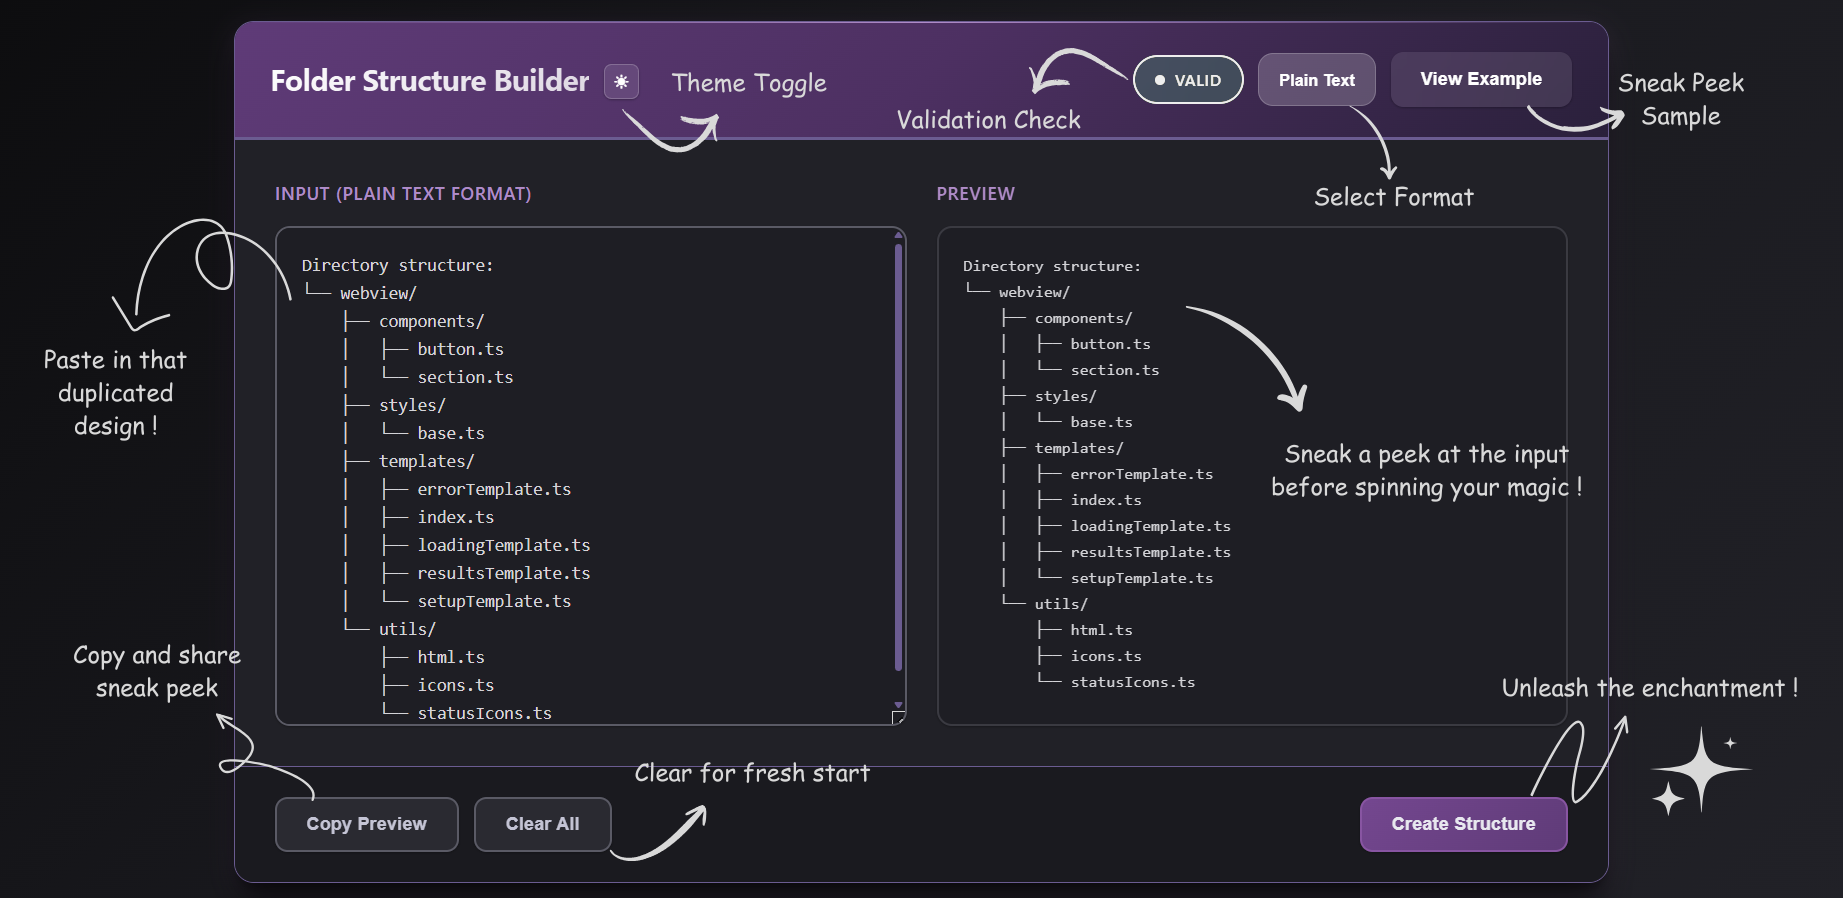
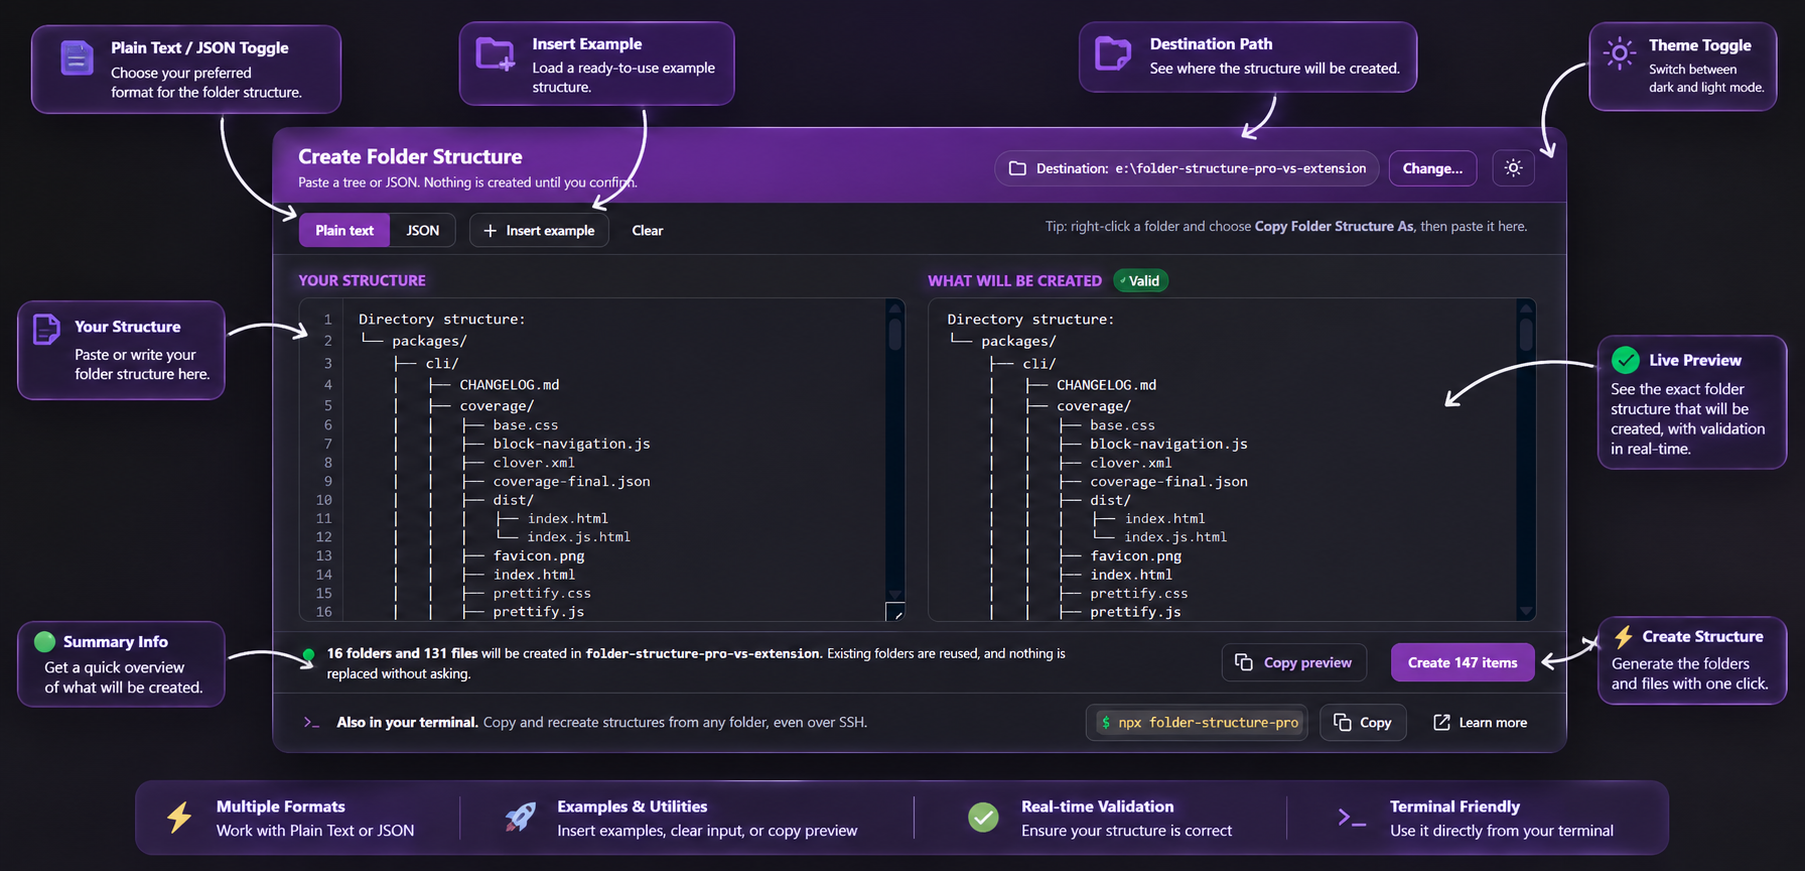
docs(whats-new): update release announcement and add CLI screenshot

diff --git a/src/whatsNew.ts b/src/whatsNew.ts
@@ -10,7 +10,7 @@ export const LAST_VERSION_KEY = 'whatsNew.lastVersion';
 const EXTENSION_ID = 'iamshreydxv.copy-folder-structure';
 
 /**
- * Images shown on the What's New page, if present. Put the files in assets/whats-new/;
+ * Images shown on the What's New page, if present. Put the files in assets/;
  * a missing image is simply left out.
  */
 export const WHATS_NEW_IMAGES = [
@@ -108,44 +108,9 @@ export async function showWhatsNew(context: vscode.ExtensionContext): Promise<vs
     }
 
     const nonce = randomBytes(16).toString('base64');
-    panel.webview.html = `<!DOCTYPE html>
-<html lang="en">
-<head>
-<meta charset="UTF-8">
-<meta name="viewport" content="width=device-width, initial-scale=1.0">
-<meta http-equiv="Content-Security-Policy" content="default-src 'none'; img-src ${panel.webview.cspSource}; style-src 'unsafe-inline'; script-src 'nonce-${nonce}';">
-<title>What's New</title>
-<style>
-body{max-width:900px;margin:0 auto;padding:24px 20px 40px;font-family:var(--vscode-font-family);font-size:var(--vscode-font-size);line-height:1.6;color:var(--vscode-foreground)}
-h1{font-size:1.6em;margin:0 0 4px}
-.lead{margin:0 0 20px;color:var(--vscode-descriptionForeground)}
-section{margin:0 0 28px}
-h2{font-size:1.15em;margin:0 0 4px}
-section p{margin:0 0 10px;color:var(--vscode-descriptionForeground)}
-img{display:block;max-width:100%;height:auto;border:1px solid var(--vscode-panel-border, transparent);border-radius:8px}
-.command{display:flex;flex-wrap:wrap;align-items:center;gap:8px;margin:8px 0 28px}
-code{padding:6px 10px;border-radius:6px;font-family:var(--vscode-editor-font-family);background:var(--vscode-textCodeBlock-background)}
-button{padding:6px 14px;border:0;border-radius:4px;cursor:pointer;font:inherit;color:var(--vscode-button-foreground);background:var(--vscode-button-background)}
-button:hover{background:var(--vscode-button-hoverBackground)}
-button.secondary{color:var(--vscode-button-secondaryForeground);background:var(--vscode-button-secondaryBackground)}
-button.secondary:hover{background:var(--vscode-button-secondaryHoverBackground)}
-</style>
-</head>
-<body>
-<h1>What's new in Folder Structure Pro</h1>
-<p class="lead">Folder Structure Pro now also works from your terminal, with no installation needed:</p>
-<div class="command"><code>${escapeHtml(CLI_COMMAND)}</code>
-    <button id="copy" type="button">Copy command</button>
-    <button id="learnMore" class="secondary" type="button">Learn more</button>
-</div>
-${sections.join('\n')}
-<script nonce="${nonce}">
-const vscode = acquireVsCodeApi();
-document.getElementById('copy').addEventListener('click', () => vscode.postMessage({ command: 'copyCommand' }));
-document.getElementById('learnMore').addEventListener('click', () => vscode.postMessage({ command: 'learnMore' }));
-</script>
-</body>
-</html>`;
+    panel.webview.html = `
+<!doctype html><html lang="en"><head><meta charset="UTF-8"><meta name="viewport" content="width=device-width,initial-scale=1"><meta http-equiv="Content-Security-Policy" content="default-src 'none'; img-src ${panel.webview.cspSource} https://raw.githubusercontent.com; style-src 'unsafe-inline'; script-src 'nonce-${nonce}';"><title>What's New</title><style>body{max-width:900px;margin:0 auto;padding:24px 20px 40px;font-family:var(--vscode-font-family);font-size:var(--vscode-font-size);line-height:1.6;color:var(--vscode-foreground)}h1{font-size:1.6em;margin:0 0 8px}.lead{margin:0 0 24px;color:var(--vscode-descriptionForeground)}section{margin:0 0 28px}h2{font-size:1.15em;margin:0 0 8px}h3{font-size:1em;margin:18px 0 6px}section p{margin:0 0 10px;color:var(--vscode-descriptionForeground)}ul{padding-left:22px;margin:8px 0 14px}li{margin-bottom:6px}img{display:block;max-width:100%;height:auto;margin:16px 0;border:1px solid var(--vscode-panel-border,transparent);border-radius:8px}.command{display:flex;flex-wrap:wrap;align-items:center;gap:8px;margin:10px 0 4px}code{padding:6px 10px;border-radius:6px;font-family:var(--vscode-editor-font-family);background:var(--vscode-textCodeBlock-background)}button{padding:6px 14px;border:0;border-radius:4px;cursor:pointer;font:inherit;color:var(--vscode-button-foreground);background:var(--vscode-button-background)}button:hover{background:var(--vscode-button-hoverBackground)}button.secondary{color:var(--vscode-button-secondaryForeground);background:var(--vscode-button-secondaryBackground)}button.secondary:hover{background:var(--vscode-button-secondaryHoverBackground)}.divider{border:0;border-top:1px solid var(--vscode-panel-border);margin:24px 0}.highlight{padding:14px 16px;border-left:3px solid var(--vscode-textLink-foreground);background:var(--vscode-textCodeBlock-background);border-radius:4px;margin:14px 0}footer{margin-top:32px;padding-top:16px;border-top:1px solid var(--vscode-panel-border);color:var(--vscode-descriptionForeground);font-size:.9em}footer p{margin:0}a{color:var(--vscode-textLink-foreground)}</style></head><body><h1>What's new in Folder Structure Pro</h1><p class="lead">A major step forward! Folder Structure Pro is no longer limited to the VS Code Explorer. This update introduces a standalone CLI, a redesigned structure builder, and a stronger foundation for safer, more reliable filesystem operations.</p><section><h2>🚀 Meet Folder Structure Pro CLI</h2><p>Take your folder-structure workflow beyond VS Code. The new standalone CLI lets you inspect, copy, export, and create project structures directly from your terminal.</p><div class="highlight"><strong>Try it instantly — no global installation required:</strong><div class="command"><code>${escapeHtml(CLI_COMMAND)}</code><button id="copy" type="button">Copy command</button><button id="learnMore" type="button" class="secondary">Explore CLI</button></div></div><h3>What you can do</h3><ul><li><strong>Copy structures:</strong> Generate folder trees and copy them directly to your clipboard.</li><li><strong>Choose your format:</strong> Export structures as readable Plain Text or structured JSON.</li><li><strong>Recreate projects:</strong> Build directories and files from an existing folder structure.</li><li><strong>Customize traversal:</strong> Control depth, hidden files, and exclusion patterns.</li><li><strong>Respect .gitignore:</strong> Exclude files and directories using Git ignore rules.</li><li><strong>Work remotely:</strong> Use OSC 52 clipboard support to copy structures over compatible SSH terminals.</li><li><strong>Run on demand:</strong> Use npx without installing the CLI globally.</li></ul><img src="https://raw.githubusercontent.com/ShreyPurohit/folder-structure-pro-vscode/main/assets/folder-structure-pro-cli.png" alt="Folder Structure Pro CLI showing folder structure generation and terminal commands" loading="lazy"><p>The CLI is powered by the same shared core as the VS Code extension and is distributed without production dependencies.</p></section><hr class="divider"><section><h2>🎨 A Redesigned Structure Creation Experience</h2><p>Creating a project structure is now more visual and intuitive. The redesigned builder gives you better control over your input, destination, preview, and final creation.</p><h3>What's improved</h3><ul><li><strong>Plain Text and JSON:</strong> Work with either supported input format.</li><li><strong>Live preview:</strong> See the structure before creating files or directories.</li><li><strong>Instant validation:</strong> Identify invalid input and resolve issues before proceeding.</li><li><strong>Example structures:</strong> Load a sample to understand the expected format.</li><li><strong>Destination selection:</strong> Choose or change the location where your structure will be created.</li><li><strong>Light and dark themes:</strong> Switch the builder's appearance to suit your preference.</li><li><strong>Quick editing:</strong> Clear input and copy the generated preview with dedicated actions.</li><li><strong>Creation summary:</strong> Review the number of folders and files before proceeding.</li><li><strong>Explicit confirmation:</strong> Review your choices before starting the creation process.</li></ul><img src="https://raw.githubusercontent.com/ShreyPurohit/folder-structure-pro-vscode/main/assets/folder_structure_pro.png" alt="Redesigned Folder Structure Pro builder showing the structure creation interface" loading="lazy"></section><hr class="divider"><section><h2>🔐 Safer Creation &amp; Filesystem Reliability</h2><p>Creating files and directories should never put existing project data at unnecessary risk. This update strengthens how the extension and CLI validate paths, handle conflicts, and recover from failures.</p><ul><li><strong>Path traversal protection:</strong> Validate paths to prevent operations from escaping the selected destination.</li><li><strong>Symlink-aware handling:</strong> Improve handling of symbolic links to avoid unintended filesystem traversal.</li><li><strong>Conflict detection:</strong> Identify existing files and directories before making changes.</li><li><strong>Controlled replacement:</strong> Make replacement behavior explicit rather than silently overwriting existing content.</li><li><strong>Safer file creation:</strong> Use exclusive creation and atomic operations where supported to reduce the risk of partial or unintended changes.</li><li><strong>Failure recovery:</strong> Improve cleanup and restoration when filesystem operations fail, including reporting cases that require manual recovery.</li><li><strong>Expanded test coverage:</strong> Add regression tests for path validation, conflicts, cleanup, and failure scenarios.</li></ul><p>These changes help preserve existing data and make filesystem operations more predictable across supported environments.</p></section><hr class="divider"><section><h2>⚙ One Shared Core, Two Ways to Work</h2><p>The VS Code extension and standalone CLI now share the same core functionality instead of maintaining separate implementations.</p><ul><li><strong>Shared creation engine:</strong> Consistent structure creation logic across both interfaces.</li><li><strong>Filesystem adapters:</strong> Platform-specific filesystem operations are separated from the shared logic.</li><li><strong>Consistent validation:</strong> Reuse path validation, conflict planning, and creation rules.</li><li><strong>Better maintainability:</strong> Improvements to shared functionality can benefit both the extension and CLI.</li><li><strong>Environment flexibility:</strong> Support native filesystem paths in the CLI and URI-based filesystem operations in VS Code environments.</li></ul></section><hr class="divider"><section><h2>✨ More Improvements</h2><ul><li>More consistent Plain Text and JSON parsing.</li><li>Improved handling of root-level files and multiple workspace roots.</li><li>Better folder-tree formatting and output consistency.</li><li>Clearer validation messages and filesystem error reporting.</li><li>Improved handling of temporary files, backups, and cleanup operations.</li></ul></section><footer><p>Thank you for being part of Folder Structure Pro! If you find it useful, consider leaving a ⭐ on <a href="https://github.com/ShreyPurohit/folder-structure-pro-vscode">GitHub</a>.</p></footer><script nonce="${nonce}">const vscode=acquireVsCodeApi();document.getElementById('copy').addEventListener('click',()=>{vscode.postMessage({command:'copyCommand'});});document.getElementById('learnMore').addEventListener('click',()=>{vscode.postMessage({command:'learnMore'});});</script></body></html>
+`;
 
     panel.webview.onDidReceiveMessage(async (received: unknown) => {
         const message = (received ?? {}) as { command?: string };

diff --git a/test/whatsNew.test.ts b/test/whatsNew.test.ts
@@ -151,33 +151,6 @@ describe("What's New page", () => {
         resetVscodeMocks();
     });
 
-    it('shows the images that exist, from the extension folder only', async () => {
-        const { context } = createContext();
-        const { panel } = mockPanel();
-        mockFsStat.mockImplementation(async (uri: vscode.Uri) => {
-            if (uri.path.endsWith('cli.png')) {
-                throw new Error('missing');
-            }
-            return { type: vscode.FileType.File };
-        });
-
-        await showWhatsNew(context);
-
-        expect(vscode.window.createWebviewPanel).toHaveBeenCalledWith(
-            'folderStructureWhatsNew',
-            "Folder Structure Pro: What's New",
-            vscode.ViewColumn.One,
-            { enableScripts: true, localResourceRoots: [vscode.Uri.file('/ext/assets/whats-new')] },
-        );
-        const html = panel.webview.html;
-        expect(html).toContain('src="vscode-resource:/ext/assets/whats-new/extension-view.png"');
-        expect(html).not.toContain('cli.png');
-        // Both sections are described even when an image is missing.
-        expect(html).toContain('A clearer Create Folder Structure panel');
-        expect(html).toContain('Folder Structure Pro in your terminal');
-        expect(html).toContain('npx folder-structure-pro');
-    });
-
     it('allows only its own images and a script with a fresh nonce', async () => {
         const { context } = createContext();
         const { panel } = mockPanel();

diff --git a/packages/cli/README.md b/packages/cli/README.md
@@ -24,7 +24,7 @@ Use the interactive menu or run commands directly from your terminal.
 - **Works over SSH** – Copy from a remote server straight to your own clipboard, or print the structure when your terminal can't.
 - **No runtime dependencies** – Nothing extra is installed alongside it.
 
-![Folder Structure Pro CLI interactive preview](https://raw.githubusercontent.com/ShreyPurohit/folder-structure-pro-vscode/main/assets/Folder-Structure-Pro-CLI.png)
+![Folder Structure Pro CLI interactive preview](https://raw.githubusercontent.com/ShreyPurohit/folder-structure-pro-vscode/main/assets/folder-structure-pro-cli.png)
 
 ## Table of Contents
 
